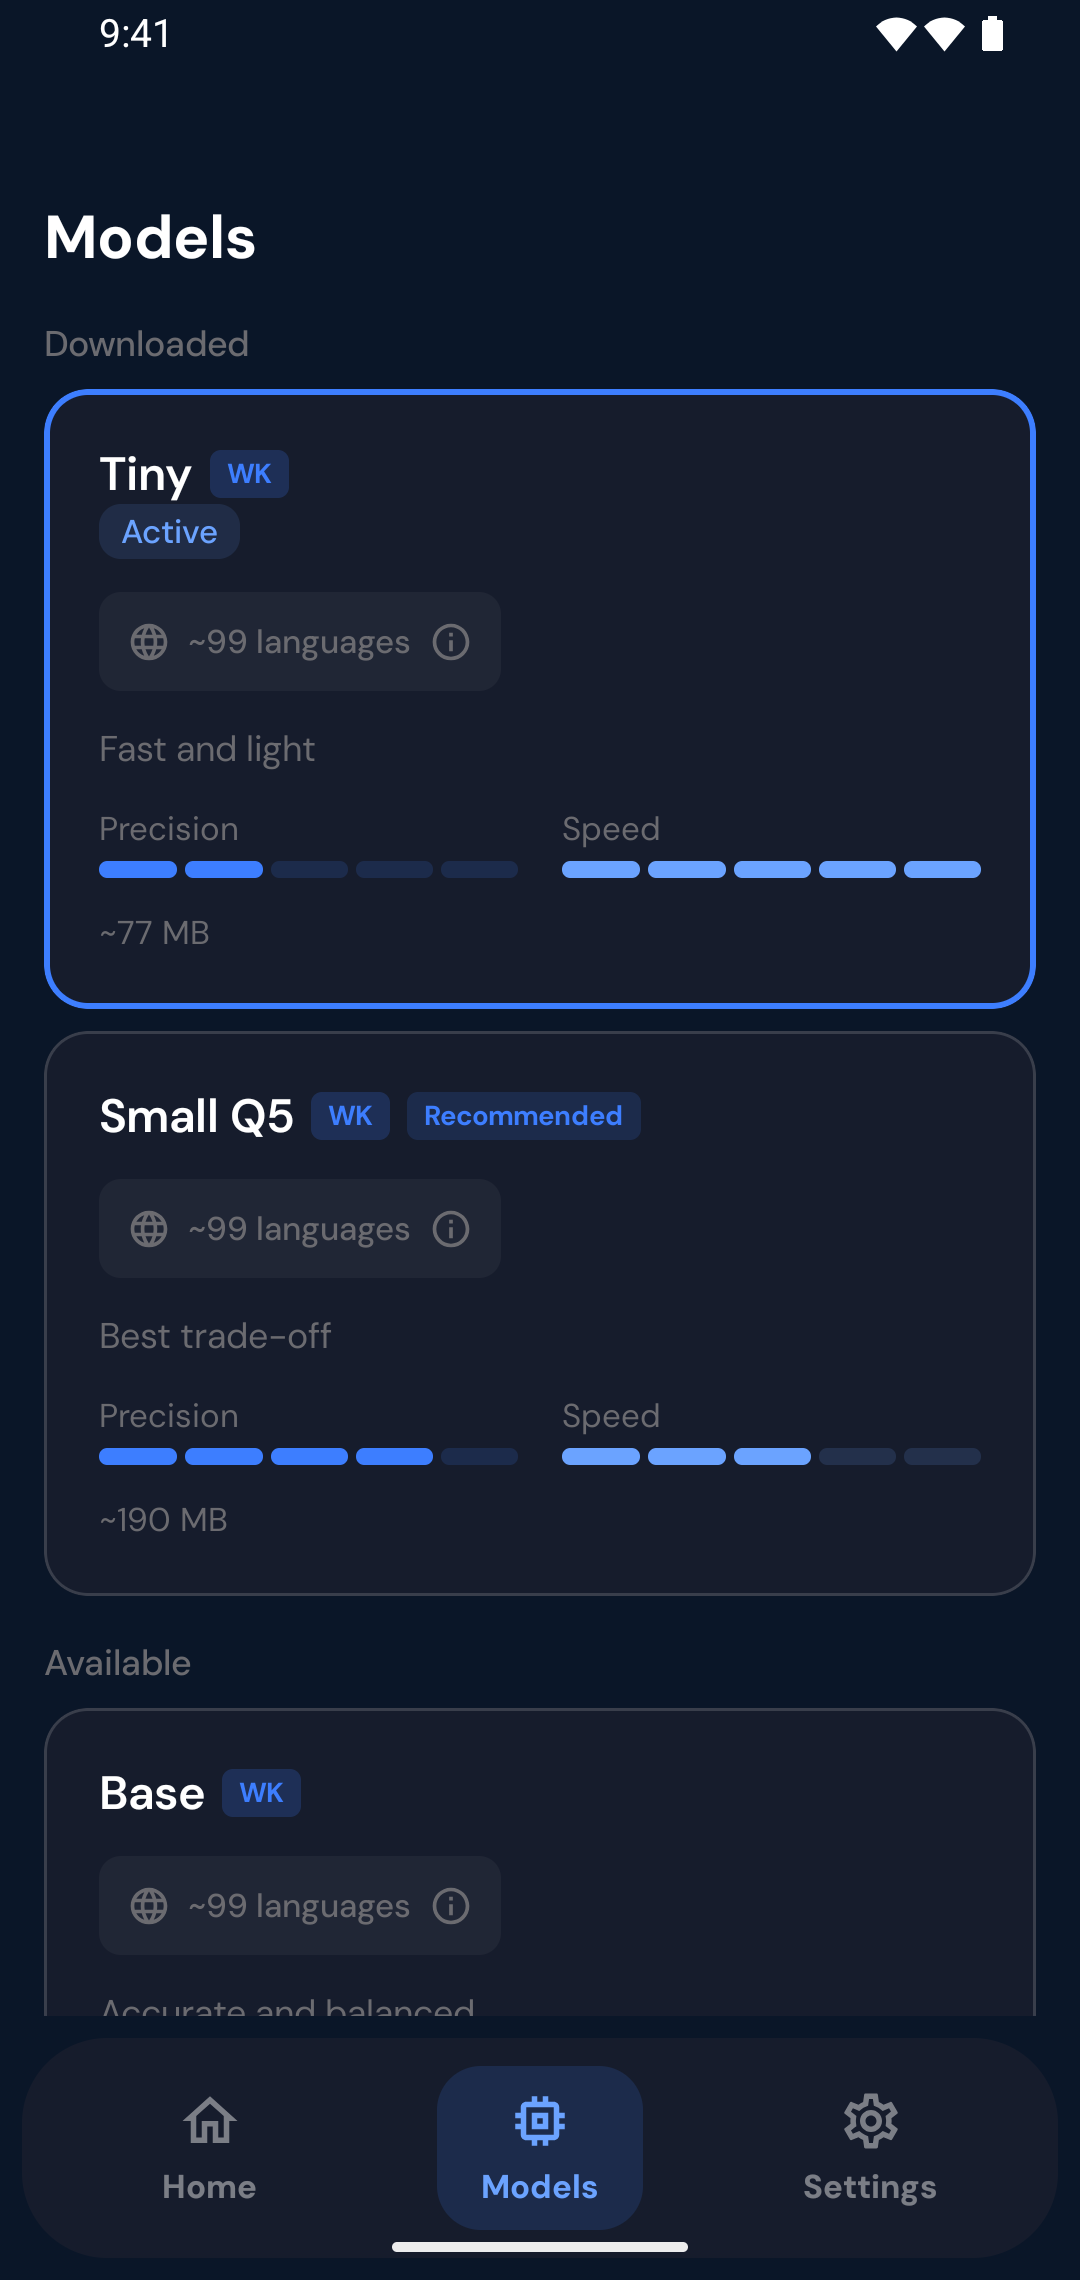
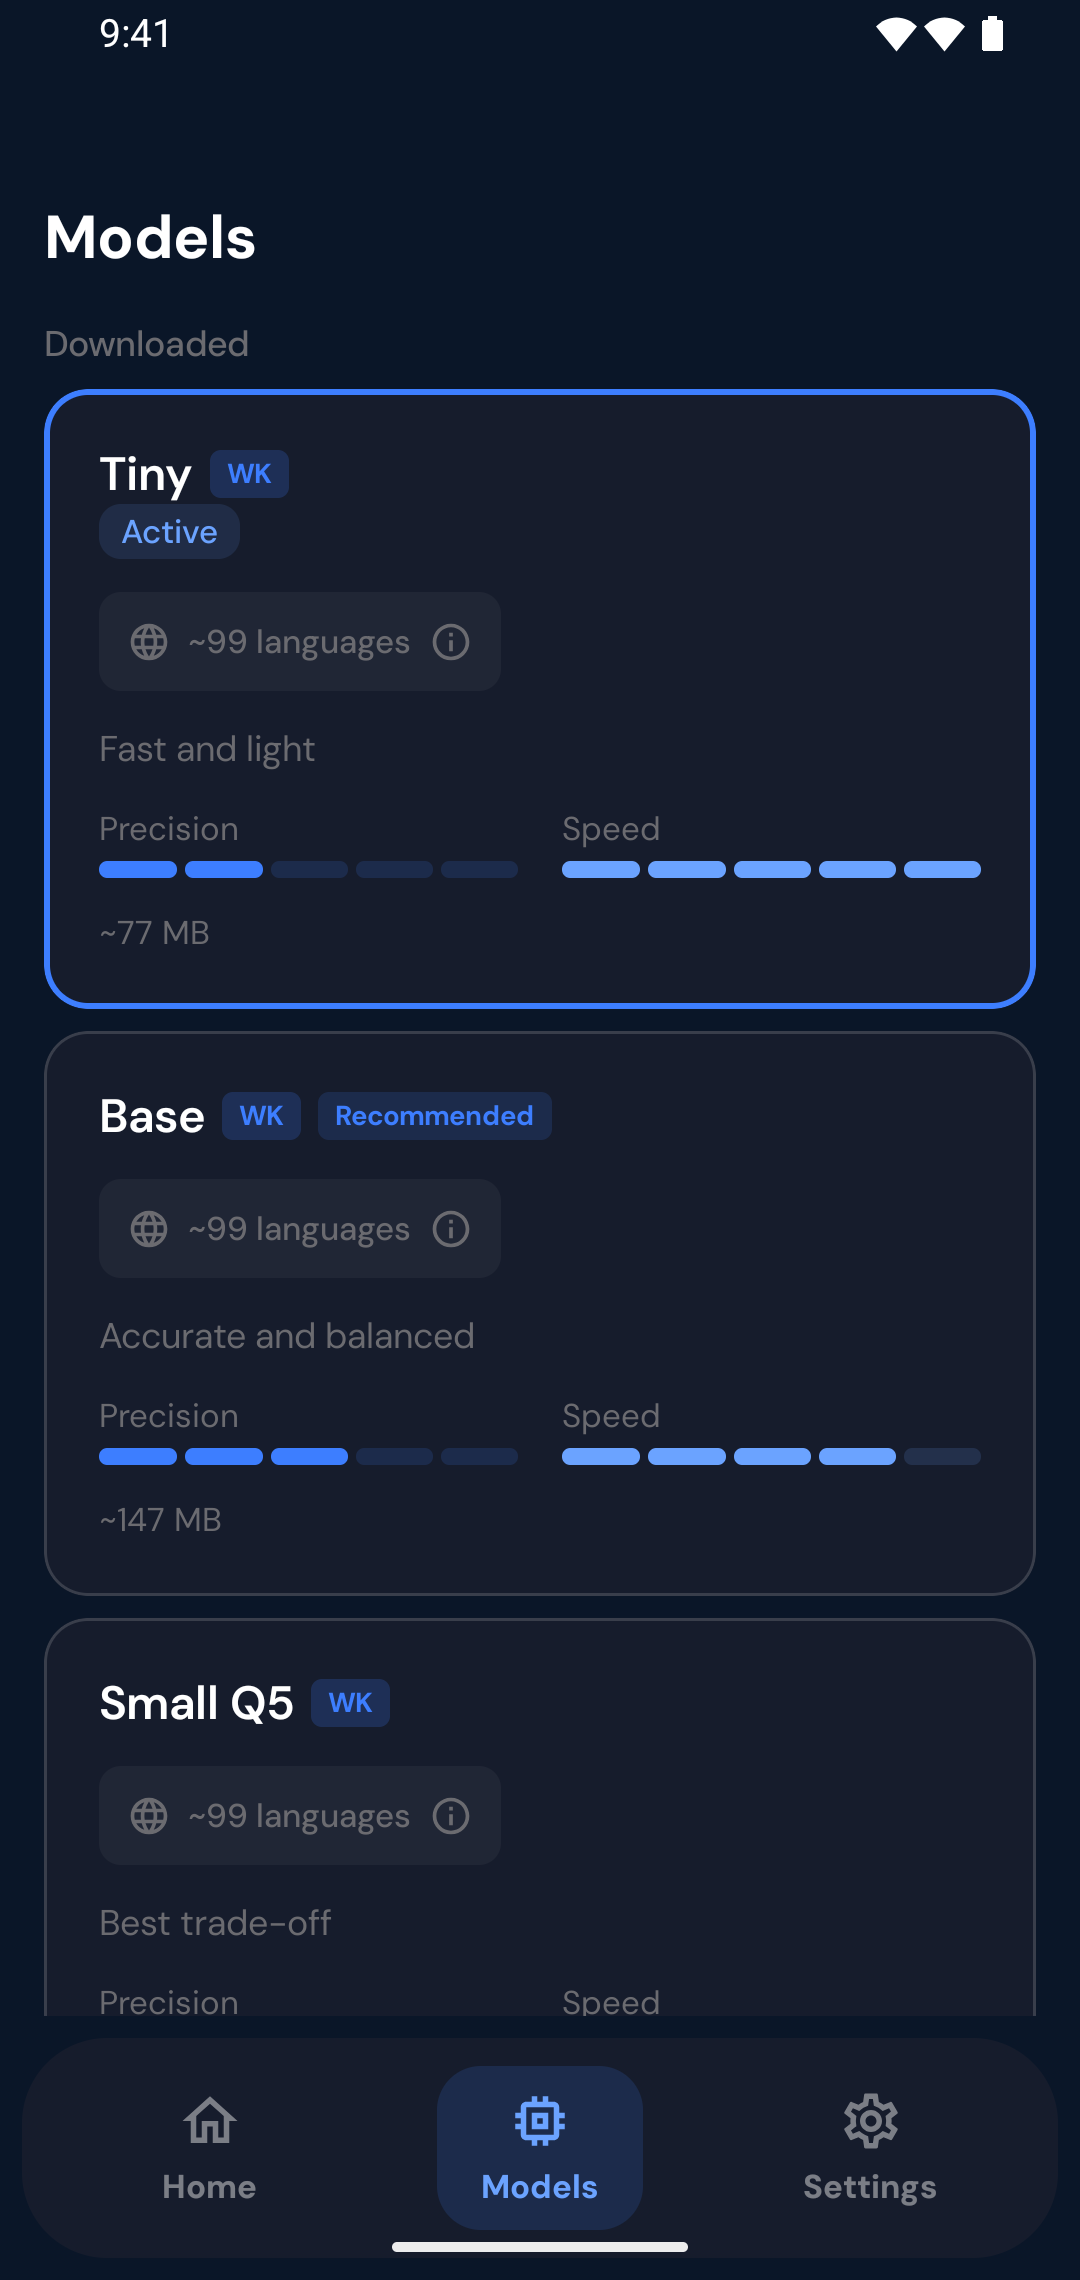
chore(play): show the Recommended badge on Base on slide 4 (refs #221)
Since #316 the app recommends Base below 6 GB of RAM, while the capture
still showed the badge on Small Q5. Retake the Models screen on the AVD
with a debug build of develop and render slide 4 again.

diff --git a/tools/play-listing/README.md b/tools/play-listing/README.md
@@ -20,5 +20,5 @@ The ribbon of slides 1 and 2 shows real app logos, like iOS. They are third-part
 - Language: system locale, plus `cmd locale set-app-locales`. The keyboard follows the system locale, not the app's.
 - `01-recording.png`: keyboard dictation in Messages, about 1 s into `fr-beau-paris.wav` on the virtual microphone. The screen above the keyboard is covered by the template's unbranded email.
 - `keyboards/`: « Dem », « Sta », « Mor » typed on the Dictus keys, in the French, English and German keyboards.
-- `05-models.png`: Modèles, with Tiny (active) and Small Q5 downloaded. The EN capture comes from a local build with the #318 fix (« MB »).
+- `05-models.png`: Modèles, with Tiny (active), Base and Small Q5 downloaded. Below 6 GB of RAM, as on this AVD, the « Recommandé » badge is on Base (#309).
 - `06-microphone.png`: the onboarding's microphone step (#220).
